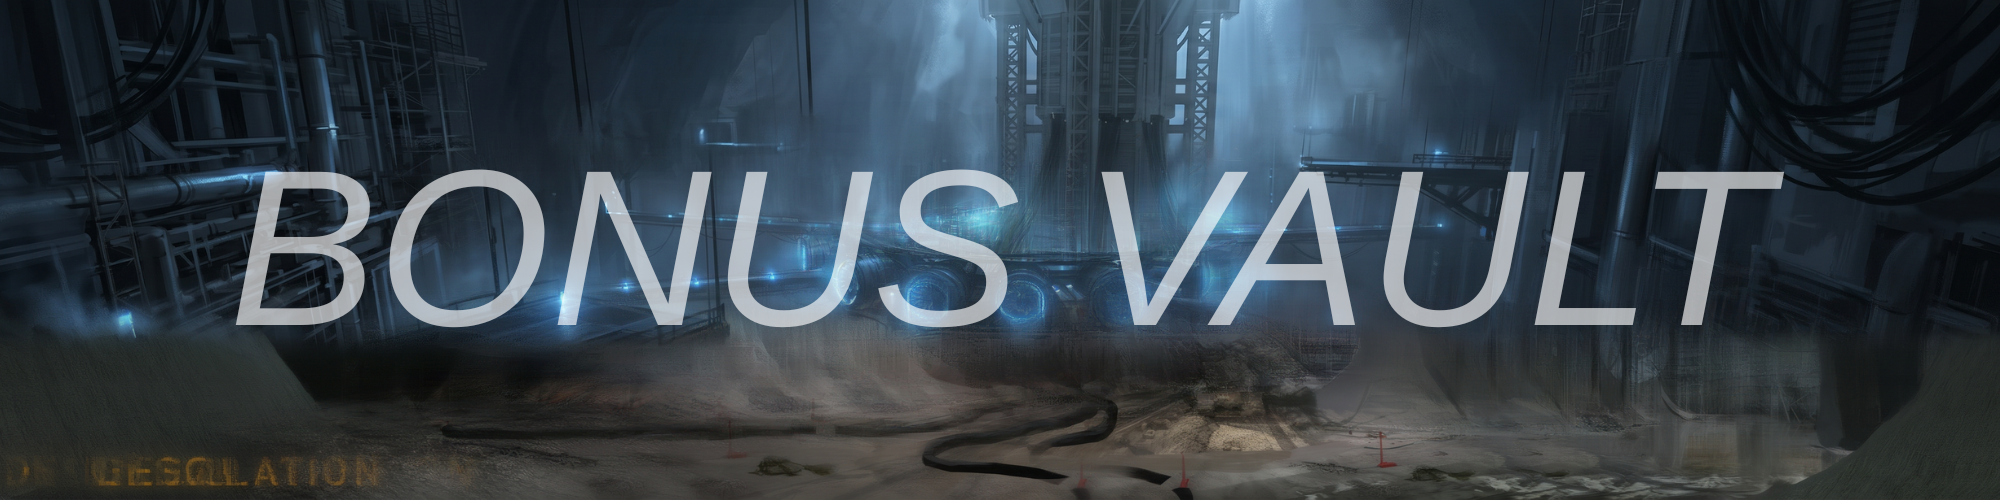
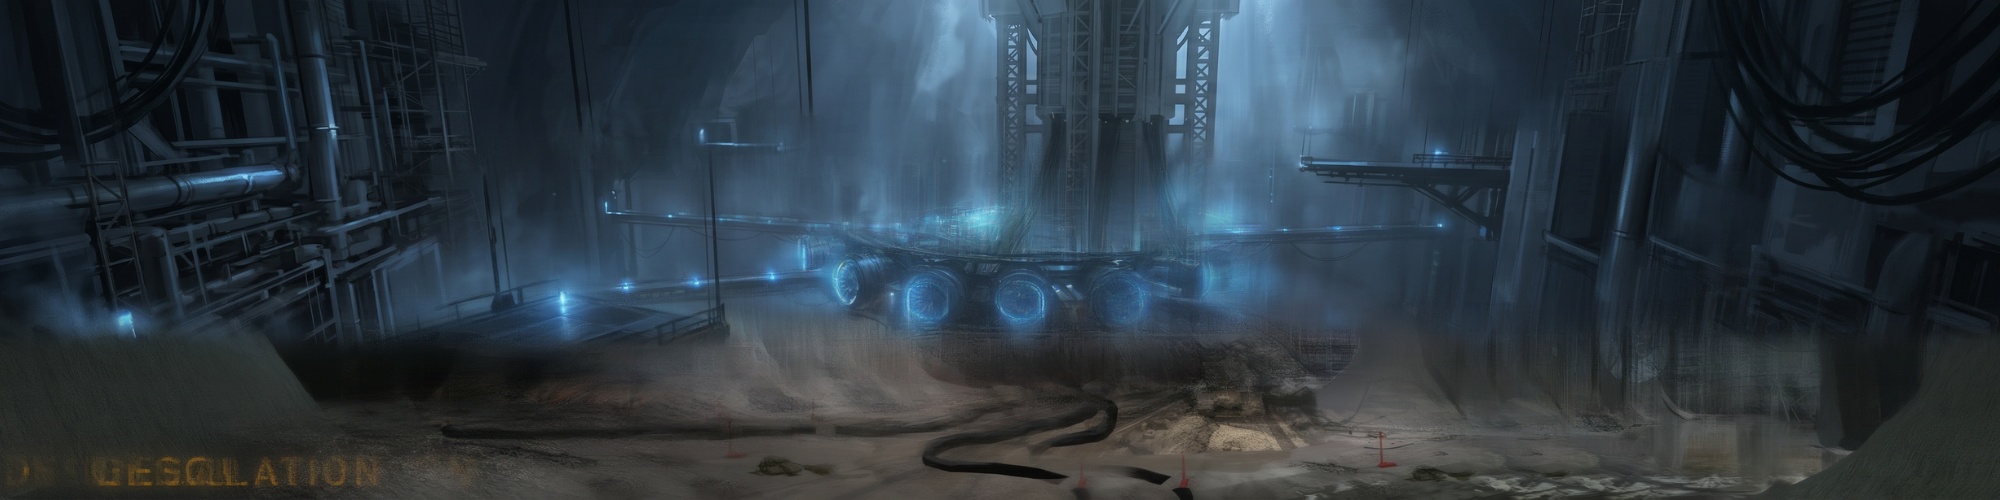
Replace all module images with new assets; fix lesson row vertical centering
Images: moved from audio/music/ (wrong location) to images/modules/.
Renamed to mod1-locked/unlocked through mod6, pre-course-unlocked,
mod7-locked/unlocked (parked for future module 7). Replaced bonus-vault.png.

hub.html: updated all MODULES image paths to use new files.
Missing pairs (mod5 lock, mod6 unlock) retain previous fallback images.

CSS: lesson-row-head uses min-height:44px + padding:0 instead of
symmetric padding, guaranteeing align-items:center works correctly
regardless of font metrics. Fixes text appearing too high in rows.

https://claude.ai/code/session_011UPn5ppVUa8YyDHU2bgYh6

Changed region(s): [[0.093, 0.33, 0.899, 0.66]]

diff --git a/hub.html b/hub.html
@@ -83,7 +83,7 @@ body::before{content:'';position:fixed;inset:0;background:repeating-linear-gradi
 .l-arr{color:var(--muted);font-size:11px;flex-shrink:0;transition:color .15s}
 .lesson-row:hover .l-arr,.lesson-row:hover .l-name{color:var(--offwhite)}
 .lesson-row.expandable{cursor:pointer;flex-direction:column;align-items:stretch;padding:0;text-decoration:none}
-.lesson-row-head{display:flex;align-items:center;gap:14px;padding:11px 20px;transition:background .15s}
+.lesson-row-head{display:flex;align-items:center;gap:14px;padding:0 20px;min-height:44px;transition:background .15s}
 .lesson-row.expandable:hover .lesson-row-head{background:transparent}
 .lesson-row.expandable:hover .lesson-row-head .l-name,.lesson-row.expandable:hover .lesson-row-head .l-arr{color:var(--blue)}
 .lesson-expand{max-height:0;overflow:hidden;transition:max-height .38s cubic-bezier(0.4,0,0.2,1)}
@@ -403,7 +403,7 @@ const DEV_UNLOCK    = false;
 
 const MODULES = [
   { key:'precourse', label:'Pre-Course', title:'BEFORE YOU BEGIN',
-    locked:'images/modules/m1-locked.png', unlocked:'images/modules/m1-unlocked.png',
+    locked:'images/modules/m1-locked.png', unlocked:'images/modules/pre-course-unlocked.png',
     url:'pre-course/module-intro.html', badge:'system_online',
     next:{ mod:'Pre-Course', title:'7 Years of Building a Learning System in 12 Minutes', url:'pre-course/lesson-0-1.html' },
     lessons:[
@@ -411,7 +411,7 @@ const MODULES = [
       {n:'0.2',title:'Getting Started with Notion',url:'pre-course/lesson-0-2.html'},
     ]},
   { key:'mod1', label:'Module 1', title:'BOOT UP',
-    locked:'images/modules/m2-locked.png', unlocked:'images/modules/m1-challenge.png',
+    locked:'images/modules/mod1-locked.png', unlocked:'images/modules/mod1-unlocked.png',
     url:'module-1/intro.html', badge:'boot_sequence',
     next:{ mod:'Module 1', title:"The Only AI Tools You'll Ever Need to Get Rich in 2026", url:'module-1/lesson-1-1.html' },
     lessons:[
@@ -421,7 +421,7 @@ const MODULES = [
       {n:'1.4',title:'When AIs Act Emotional',url:'module-1/lesson-1-4.html',takeaways:['Claude is designed to be genuinely helpful, not just superficially agreeable.','Understanding the model\'s design philosophy makes you a more effective operator of it.','There\'s a difference between a tool that performs compliance and one designed with coherent values — and that difference shows up in quality of output.']},
     ]},
   { key:'mod2', label:'Module 2', title:'THE PROMPT ENGINEER',
-    locked:'images/modules/m3-locked.png', unlocked:'images/modules/m2-challenge.png',
+    locked:'images/modules/mod2-locked.png', unlocked:'images/modules/mod2-unlocked.png',
     url:'module-2/intro.html', badge:'signal_steady',
     next:{ mod:'Module 2', title:"Claude vs ChatGPT — Which One's Actually Better?", url:'module-2/lesson-2-1.html' },
     lessons:[
@@ -434,7 +434,7 @@ const MODULES = [
       {n:'2.7',title:'Perplexity Computer for Beginners: Everything You Need to Know',url:'module-2/lesson-2-7.html'},
     ]},
   { key:'mod3', label:'Module 3', title:'THE AUTOMATION LAYER',
-    locked:'images/modules/m4-locked.png', unlocked:'images/modules/m3-challenge.png',
+    locked:'images/modules/mod3-locked.png', unlocked:'images/modules/mod3-unlocked.png',
     url:'module-3/intro.html', badge:'commander',
     next:{ mod:'Module 3', title:'Introducing Cowork', url:'module-3/lesson-3-1.html' },
     lessons:[
@@ -454,7 +454,7 @@ const MODULES = [
       {n:'3.14',title:'Zapier AI Agents: Step-by-Step',url:'module-3/lesson-3-14.html'},
     ]},
   { key:'mod4', label:'Module 4', title:'THE AGENT BLUEPRINT',
-    locked:'images/modules/m5-locked.png', unlocked:'images/modules/m4-challenge.png',
+    locked:'images/modules/mod4-locked.png', unlocked:'images/modules/mod4-unlocked.png',
     url:'module-4/intro.html', badge:'architect',
     next:{ mod:'Module 4', title:'How to Build AI Agents in 2026', url:'module-4/lesson-4-1.html' },
     lessons:[
@@ -468,7 +468,7 @@ const MODULES = [
       {n:'4.8',title:'Claude Works with You on Slides, Spreadsheets, and Contract Redlines',url:'module-4/lesson-4-8.html'},
     ]},
   { key:'mod5', label:'Module 5', title:'LEAD GENERATION MACHINE',
-    locked:'images/modules/m6-locked.png', unlocked:'images/modules/m5-challenge.png',
+    locked:'images/modules/m6-locked.png', unlocked:'images/modules/mod5-unlocked.png',
     url:'module-5/intro.html', badge:'pipeline_inventor',
     next:{ mod:'Module 5', title:'Getting Started with Research in Claude.ai', url:'module-5/lesson-5-1.html' },
     lessons:[
@@ -481,7 +481,7 @@ const MODULES = [
       {n:'5.7',title:'Claude Code Just Changed Lead Generation Forever',url:'module-5/lesson-5-7.html'},
     ]},
   { key:'mod6', label:'Module 6', title:'CLIENT READY',
-    locked:'images/modules/m7-locked.png', unlocked:'images/modules/m6-challenge.png',
+    locked:'images/modules/mod6-locked.png', unlocked:'images/modules/m6-challenge.png',
     url:'module-6/intro.html', badge:'operator',
     next:{ mod:'Module 6', title:'How to Build a $10M Solo AI Business (Zero Code)', url:'module-6/lesson-6-1.html' },
     lessons:[